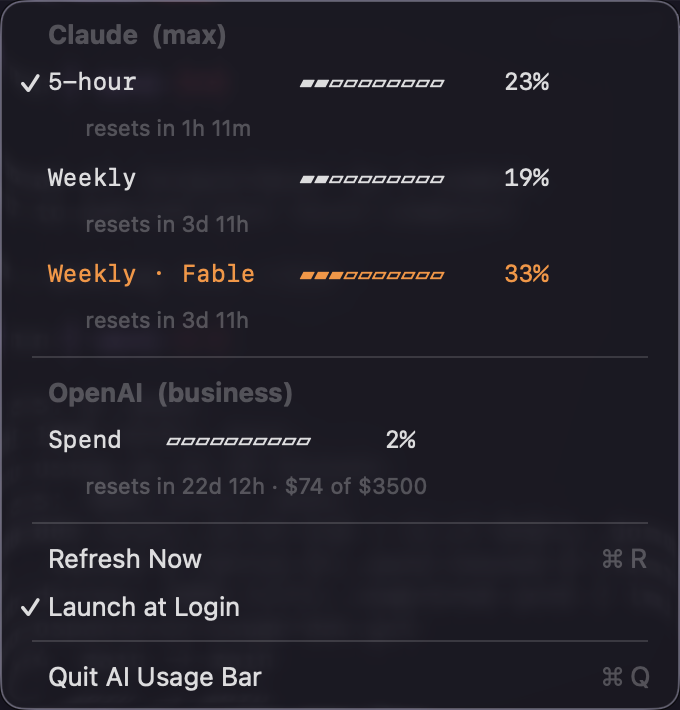
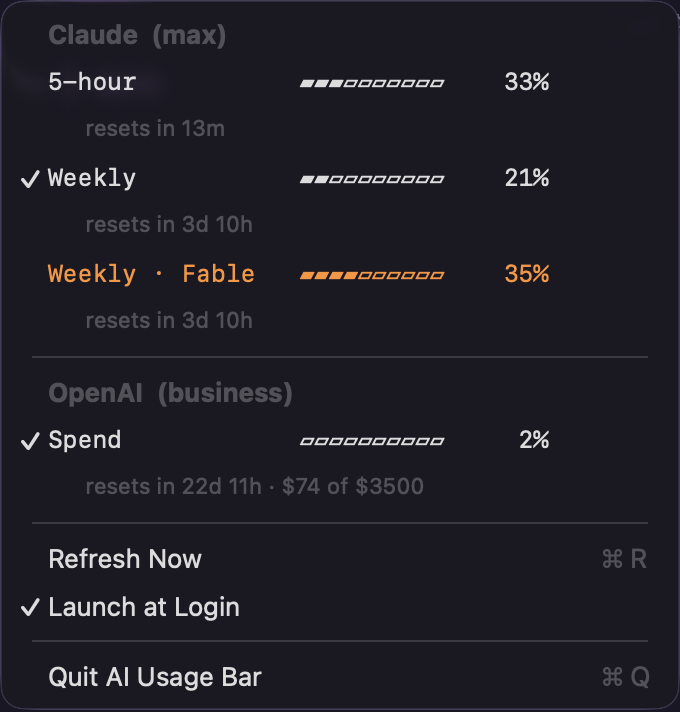
Refresh menu-bar and dropdown screenshots for current UI
Regenerate docs/menubar.png (white provider logos + percentages) and
docs/dropdown.png (per-provider sections with ✓-marked window, orange
active window) from a HEAD build, and fix the stale menu-bar alt text.

diff --git a/README.md b/README.md
@@ -8,7 +8,7 @@ rolling-window percentages you'd see in Claude Code's `/usage` and Codex CLI's
 A compact title sits in the menu bar —
 
 <div align="center" style="text-align:center">
-  <img src="docs/menubar.png" alt="Menu-bar title reading: C 20% · O 2%" height="22">
+  <img src="docs/menubar.png" alt="Menu-bar title showing the Claude logo with 21% and the OpenAI logo with 2%" height="22">
 </div>
 
 — and clicking it drops down the full per-window breakdown for both providers:
